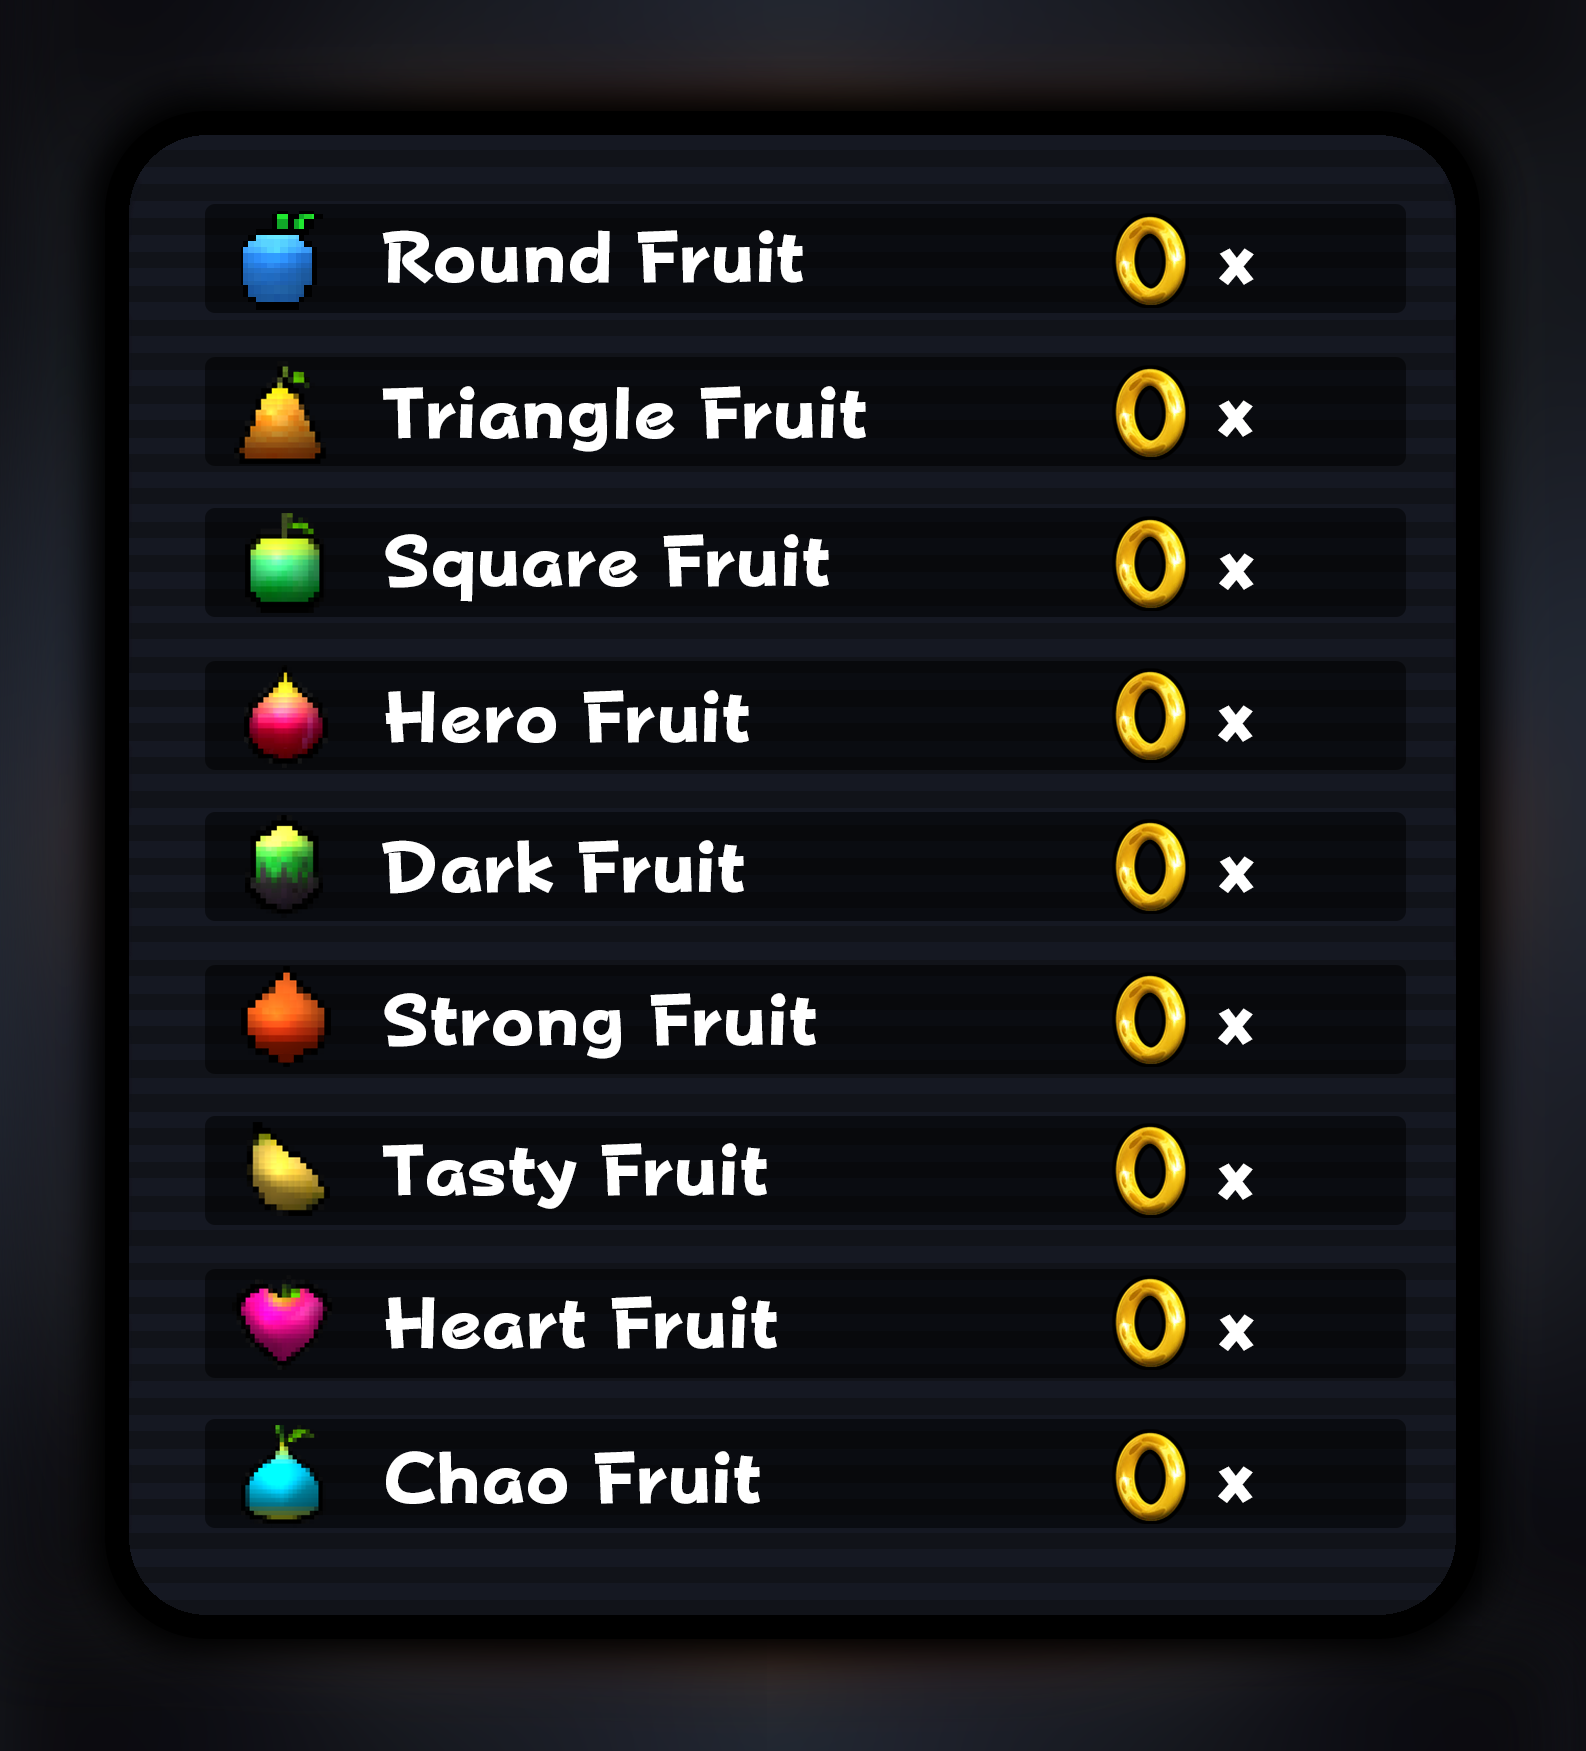
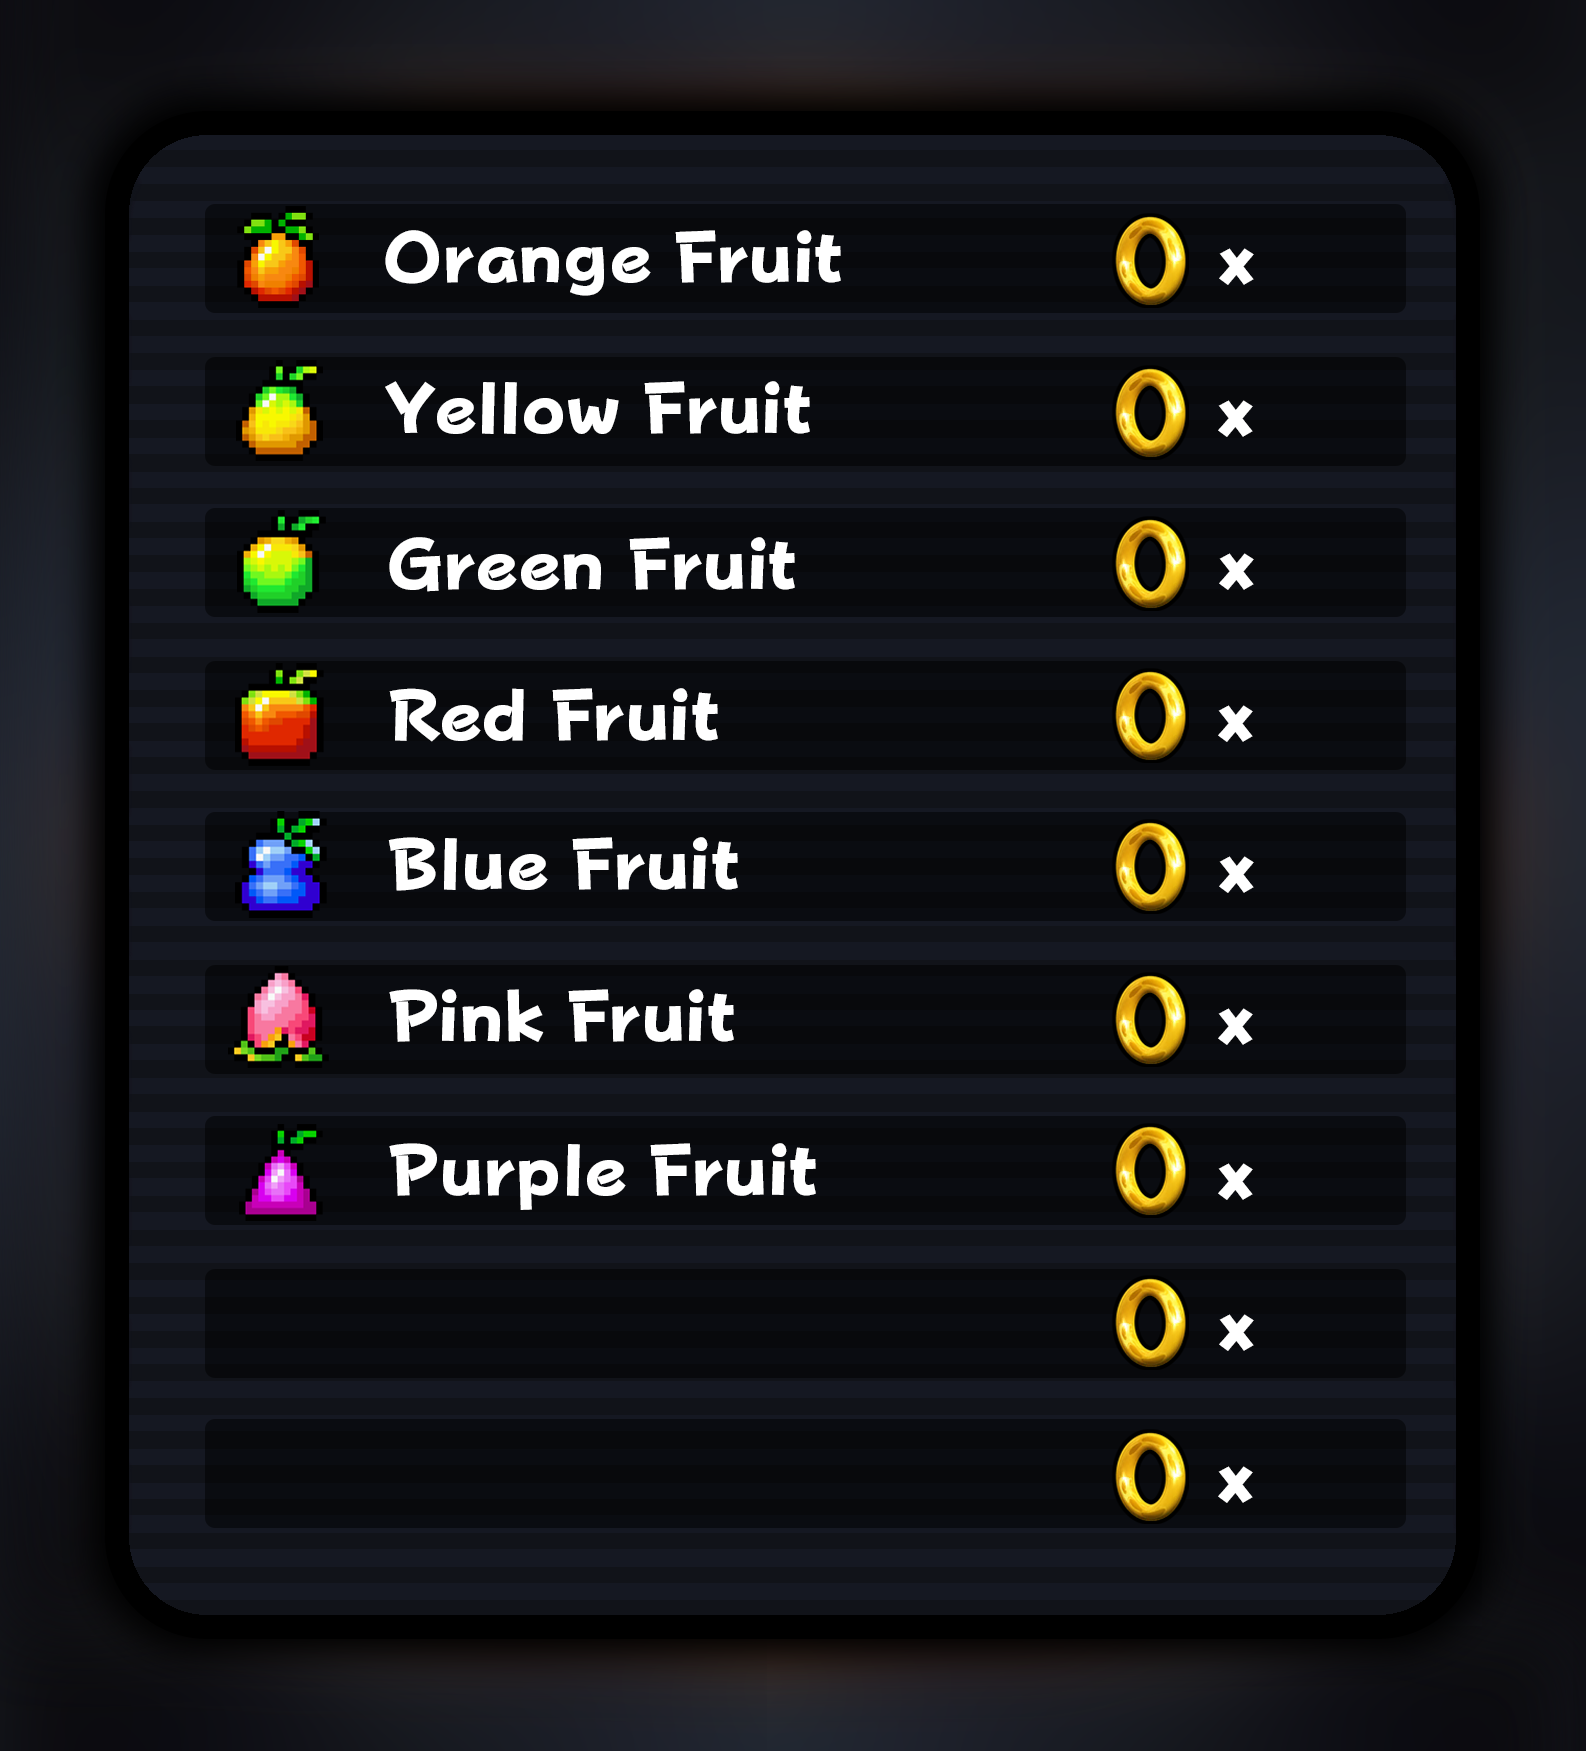
Black Market embed edits.

diff --git a/src/cogs/chao.py b/src/cogs/chao.py
@@ -6,13 +6,116 @@ from discord.ui import View
 from datetime import datetime
 import random
 
+class MarketView(View):
+    def __init__(self, embed: discord.Embed, page_1_url: str, page_2_url: str):
+        super().__init__(timeout=None)
+        self.embed = embed
+        self.page_1_url = page_1_url
+        self.page_2_url = page_2_url
+        self.current_page = 1
+
+    @discord.ui.button(label="Page 1", style=discord.ButtonStyle.primary)
+    async def page_1_button(self, interaction: discord.Interaction, button: discord.ui.Button):
+        if self.current_page != 1:
+            self.current_page = 1
+            self.embed.set_image(url=self.page_1_url)
+            await interaction.response.edit_message(embed=self.embed, view=self)
+        else:
+            await interaction.response.defer()
+
+    @discord.ui.button(label="Page 2", style=discord.ButtonStyle.secondary)
+    async def page_2_button(self, interaction: discord.Interaction, button: discord.ui.Button):
+        if self.current_page != 2:
+            self.current_page = 2
+            self.embed.set_image(url=self.page_2_url)
+            await interaction.response.edit_message(embed=self.embed, view=self)
+        else:
+            await interaction.response.defer()
+
+
+class StatsView(View):
+    def __init__(self, chao_name, guild_id, user_id, tick_positions, exp_positions, num_images,
+                 level_position_offset, level_spacing, tick_spacing, chao_type_display, alignment_label,
+                 template_path, template_page_2_path, overlay_path, icon_path, image_utils, data_utils):
+        super().__init__(timeout=None)
+        self.chao_name = chao_name
+        self.guild_id = guild_id
+        self.user_id = user_id
+        self.tick_positions = tick_positions
+        self.exp_positions = exp_positions
+        self.num_images = num_images
+        self.level_position_offset = level_position_offset
+        self.level_spacing = level_spacing
+        self.tick_spacing = tick_spacing
+        self.chao_type_display = chao_type_display
+        self.alignment_label = alignment_label
+        self.TEMPLATE_PATH = template_path
+        self.TEMPLATE_PAGE_2_PATH = template_page_2_path
+        self.OVERLAY_PATH = overlay_path
+        self.ICON_PATH = icon_path
+        self.image_utils = image_utils
+        self.data_utils = data_utils
+
+    @discord.ui.button(label="Page 1", style=discord.ButtonStyle.primary)
+    async def page_1_button(self, interaction: discord.Interaction, button: discord.ui.Button):
+        await self.update_stats(interaction, "Page 1")
+
+    @discord.ui.button(label="Page 2", style=discord.ButtonStyle.secondary)
+    async def page_2_button(self, interaction: discord.Interaction, button: discord.ui.Button):
+        await self.update_stats(interaction, "Page 2")
+
+    async def update_stats(self, interaction: discord.Interaction, page: str):
+        chao_dir = self.data_utils.get_path(self.guild_id, self.user_id, 'chao_data', self.chao_name)
+        chao_stats_path = os.path.join(chao_dir, f'{self.chao_name}_stats.parquet')
+        chao_df = self.data_utils.load_chao_stats(chao_stats_path)
+        chao_to_view = chao_df.iloc[-1].to_dict()
+
+        print(f"[update_stats] Displaying {page} for Chao: {self.chao_name}, User: {self.user_id}")
+
+        if page == "Page 1":
+            template_path = self.TEMPLATE_PATH
+            image_path = os.path.join(chao_dir, f'{self.chao_name}_stats_page_1.png')
+        else:
+            template_path = self.TEMPLATE_PAGE_2_PATH
+            image_path = os.path.join(chao_dir, f'{self.chao_name}_stats_page_2.png')
+
+        self.image_utils.paste_image(
+            template_path,
+            self.OVERLAY_PATH,
+            image_path,
+            self.tick_positions,
+            chao_to_view["power_ticks"], chao_to_view["swim_ticks"], chao_to_view["fly_ticks"],
+            chao_to_view["run_ticks"], chao_to_view["stamina_ticks"],
+            chao_to_view["power_level"], chao_to_view["swim_level"], chao_to_view["fly_level"],
+            chao_to_view["run_level"], chao_to_view["stamina_level"],
+            chao_to_view.get("swim_exp", 0), chao_to_view.get("fly_exp", 0),
+            chao_to_view.get("run_exp", 0), chao_to_view.get("power_exp", 0),
+            chao_to_view.get("stamina_exp", 0)
+        )
+
+        embed = discord.Embed(color=discord.Color.blue()).set_author(
+            name=f"{self.chao_name}'s Stats",
+            icon_url="attachment://Stats.png"
+        )
+        embed.add_field(name="Type", value=self.chao_type_display, inline=True)
+        embed.add_field(name="Alignment", value=self.alignment_label, inline=True)
+        embed.set_thumbnail(url="attachment://chao_thumbnail.png")
+        embed.set_image(url=f"attachment://{os.path.basename(image_path)}")
+
+        await interaction.response.edit_message(embed=embed, view=self, attachments=[
+            discord.File(image_path, os.path.basename(image_path)),
+            discord.File(self.ICON_PATH),
+            discord.File(os.path.join(chao_dir, f'{self.chao_name}_thumbnail.png'), "chao_thumbnail.png")
+        ])
+
+
 class Chao(commands.Cog):
     def __init__(self, bot):
         self.bot = bot
         self.embed_color = discord.Color.blue()
         self.image_utils = self.data_utils = None
 
-        # Load configuration from JSON file
+        # Load configuration
         with open('config.json', 'r') as f:
             config = json.load(f)
 
@@ -21,7 +124,6 @@ class Chao(commands.Cog):
         self.FRUIT_TICKS_RANGE = config['FRUIT_TICKS_RANGE']
         self.FRUIT_STATS = config['FRUIT_STATS']
 
-        # Initialize variables that depend on the constants
         self.FORM_LEVEL_2 = self.FORM_LEVELS[0]
         self.FORM_LEVEL_3 = self.FORM_LEVELS[1]
         self.FORM_LEVEL_4 = self.FORM_LEVELS[2]
@@ -30,7 +132,6 @@ class Chao(commands.Cog):
         self.FRUIT_TICKS_MIN = self.FRUIT_TICKS_RANGE[0]
         self.FRUIT_TICKS_MAX = self.FRUIT_TICKS_RANGE[1]
 
-        # Other constants
         self.GRADES = ['F', 'E', 'D', 'C', 'B', 'A', 'S', 'X']
         self.GRADE_TO_VALUE = dict(zip(self.GRADES, range(-1, 7)))
         self.CUSTOM_EMOJI_ID = 1176313914464681984
@@ -43,11 +144,9 @@ class Chao(commands.Cog):
             "Chaoblin", "Count Chaocula", "Chaozil", "Chaoz"
         ]
 
-        # Thresholds
         self.RUN_POWER_THRESHOLD = 5
         self.SWIM_FLY_THRESHOLD = 5
 
-        # Initialize variables that will be set in cog_load
         self.assets_dir = None
         self.TEMPLATE_PATH = None
         self.TEMPLATE_PAGE_2_PATH = None
@@ -59,7 +158,7 @@ class Chao(commands.Cog):
         self.EYES_DIR = None
         self.MOUTH_DIR = None
         self.fruits = None
-        self.fruit_prices = 15  # Assuming this remains constant
+        self.fruit_prices = 15
 
     def cog_load(self):
         self.image_utils = self.bot.get_cog('ImageUtils')
@@ -76,7 +175,6 @@ class Chao(commands.Cog):
         self.BACKGROUND_PATH = os.path.join(self.assets_dir, 'graphics/thumbnails/neutral_background.png')
         self.BLACK_MARKET_THUMBNAIL_PATH = os.path.join(self.assets_dir, 'graphics', 'thumbnails', 'black_market.png')
         self.EXAMPLE_IMAGE_PATH = os.path.join(self.assets_dir, 'graphics', 'cards', 'black_market_fruits_page_1.png')
-        # Adjusted TICK_POSITIONS to remove the "mind" stat
         self.TICK_POSITIONS = [(446, y) for y in [1176, 315, 591, 883, 1469]]
         self.EYES_DIR = os.path.join(self.assets_dir, 'face', 'eyes')
         self.MOUTH_DIR = os.path.join(self.assets_dir, 'face', 'mouth')
@@ -90,9 +188,8 @@ class Chao(commands.Cog):
         self.fruit_prices = 15
 
     def calculate_exp_gain(self, grade):
-        return self.GRADE_TO_VALUE[grade] * 3 + 13
+        return (self.GRADE_TO_VALUE[grade] * 3) + 13
 
-    
     async def chao(self, ctx):
         await self.initialize_inventory(
             ctx, str(ctx.guild.id), str(ctx.author.id),
@@ -119,7 +216,6 @@ class Chao(commands.Cog):
             .set_image(url="attachment://neutral_normal_1.png")
         )
 
-    
     async def give_rings(self, ctx):
         guild_id, user_id = str(ctx.guild.id), str(ctx.author.id)
         inventory_path = self.data_utils.get_path(guild_id, user_id, 'user_data', 'inventory.parquet')
@@ -362,31 +458,30 @@ class Chao(commands.Cog):
         inventory_df = self.data_utils.load_inventory(inventory_path)
         current_inventory = inventory_df.iloc[-1].to_dict() if not inventory_df.empty else {'rings': 0}
         rings = int(current_inventory.get('rings', 0))
-
-        # Ring emoji
         ring_emoji = f'<:custom_emoji:{self.CUSTOM_EMOJI_ID}>'
 
         if market_type and market_type.lower() == "fruits":
-            # Instead of using attachments, use a direct URL
-            # Upload black_market_fruits_page_1.png to an image host and get a direct URL
-            # For example, if you have it hosted at "https://example.com/black_market_fruits_page_1.png"
-            image_url = "https://example.com/black_market_fruits_page_1.png"
-            icon_url = "https://example.com/Black_Market_icon.png"
-            thumbnail_url = "https://example.com/black_market.png"
+            page_1_url = "https://raw.githubusercontent.com/nickshouse/Chao-Bot/refs/heads/main/assets/graphics/cards/black_market_fruits_page_1.png"
+            page_2_url = "https://raw.githubusercontent.com/nickshouse/Chao-Bot/refs/heads/main/assets/graphics/cards/black_market_fruits_page_2.png"
+            icon_url = "https://raw.githubusercontent.com/nickshouse/Chao-Bot/refs/heads/main/assets/graphics/icons/Black_Market.png"
+            thumbnail_url = "https://raw.githubusercontent.com/nickshouse/Chao-Bot/refs/heads/main/assets/graphics/thumbnails/black_market.png"
 
-            # Create the embed
             embed = discord.Embed(color=self.embed_color)
             embed.set_author(name="Black Market - Fruits", icon_url=icon_url)
             embed.description = "Buy fruits to feed your Chao!"
             embed.add_field(name="Rings", value=f"{ring_emoji} x {rings}", inline=True)
             embed.set_thumbnail(url=thumbnail_url)
-            embed.set_image(url=image_url)
+            embed.set_image(url=page_1_url)
 
-            # Send only the embed, no attached files, so no extra image line is shown.
-            await ctx.send(embed=embed)
+            view = MarketView(
+                embed=embed,
+                page_1_url=page_1_url,
+                page_2_url=page_2_url
+            )
+
+            await ctx.send(embed=embed, view=view)
         else:
             await self.send_embed(ctx, "Please specify a valid market type. For example: `$market fruits`", "Chao Bot")
-
 
 
 
@@ -665,46 +760,6 @@ class Chao(commands.Cog):
             file=discord.File(thumbnail_path, filename=f"{chao_name}_thumbnail.png"),
             embed=embed
         )
-
-# A new view class for market pagination
-class MarketView(View):
-    def __init__(self, embed: discord.Embed, page_1_image: str, page_2_image: str, icon_path: str, thumbnail_path: str):
-        super().__init__(timeout=None)
-        self.embed = embed
-        self.page_1_image = page_1_image
-        self.page_2_image = page_2_image
-        self.icon_path = icon_path
-        self.thumbnail_path = thumbnail_path
-        self.current_page = 1
-
-    @discord.ui.button(label="Page 1", style=discord.ButtonStyle.primary)
-    async def page_1_button(self, interaction: discord.Interaction, button: discord.ui.Button):
-        if self.current_page != 1:
-            self.current_page = 1
-            self.embed.set_image(url=f"attachment://{self.page_1_image}")
-            await interaction.response.edit_message(embed=self.embed, attachments=[
-                discord.File(self.icon_path, filename="Black_Market.png"),
-                discord.File(self.thumbnail_path, filename="black_market.png"),
-                discord.File(os.path.join(os.path.dirname(self.page_1_image), os.path.basename(self.page_1_image)), filename=os.path.basename(self.page_1_image)),
-                discord.File(os.path.join(os.path.dirname(self.page_2_image), os.path.basename(self.page_2_image)), filename=os.path.basename(self.page_2_image))
-            ], view=self)
-        else:
-            await interaction.response.defer()
-
-    @discord.ui.button(label="Page 2", style=discord.ButtonStyle.secondary)
-    async def page_2_button(self, interaction: discord.Interaction, button: discord.ui.Button):
-        if self.current_page != 2:
-            self.current_page = 2
-            self.embed.set_image(url=f"attachment://{self.page_2_image}")
-            await interaction.response.edit_message(embed=self.embed, attachments=[
-                discord.File(self.icon_path, filename="Black_Market.png"),
-                discord.File(self.thumbnail_path, filename="black_market.png"),
-                discord.File(os.path.join(os.path.dirname(self.page_1_image), os.path.basename(self.page_1_image)), filename=os.path.basename(self.page_1_image)),
-                discord.File(os.path.join(os.path.dirname(self.page_2_image), os.path.basename(self.page_2_image)), filename=os.path.basename(self.page_2_image))
-            ], view=self)
-        else:
-            await interaction.response.defer()
-
 
 class StatsView(View):
     def __init__(self, chao_name, guild_id, user_id, tick_positions, exp_positions, num_images, level_position_offset, level_spacing, tick_spacing, chao_type_display, alignment_label, template_path, template_page_2_path, overlay_path, icon_path, image_utils, data_utils):
